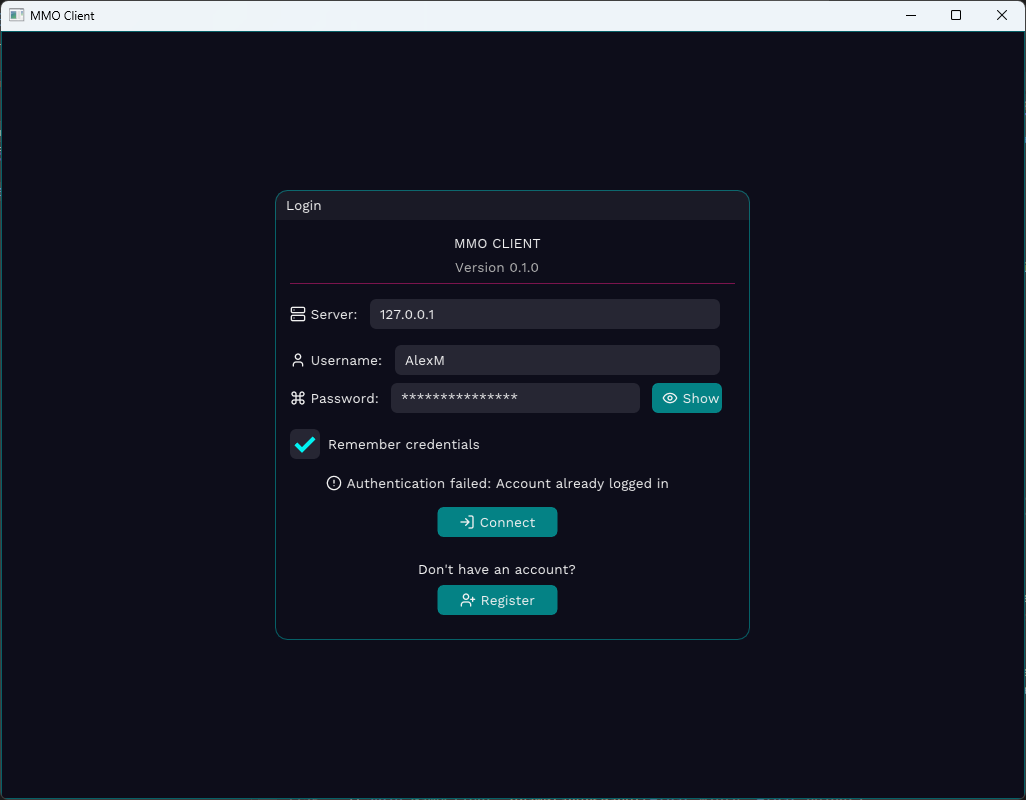
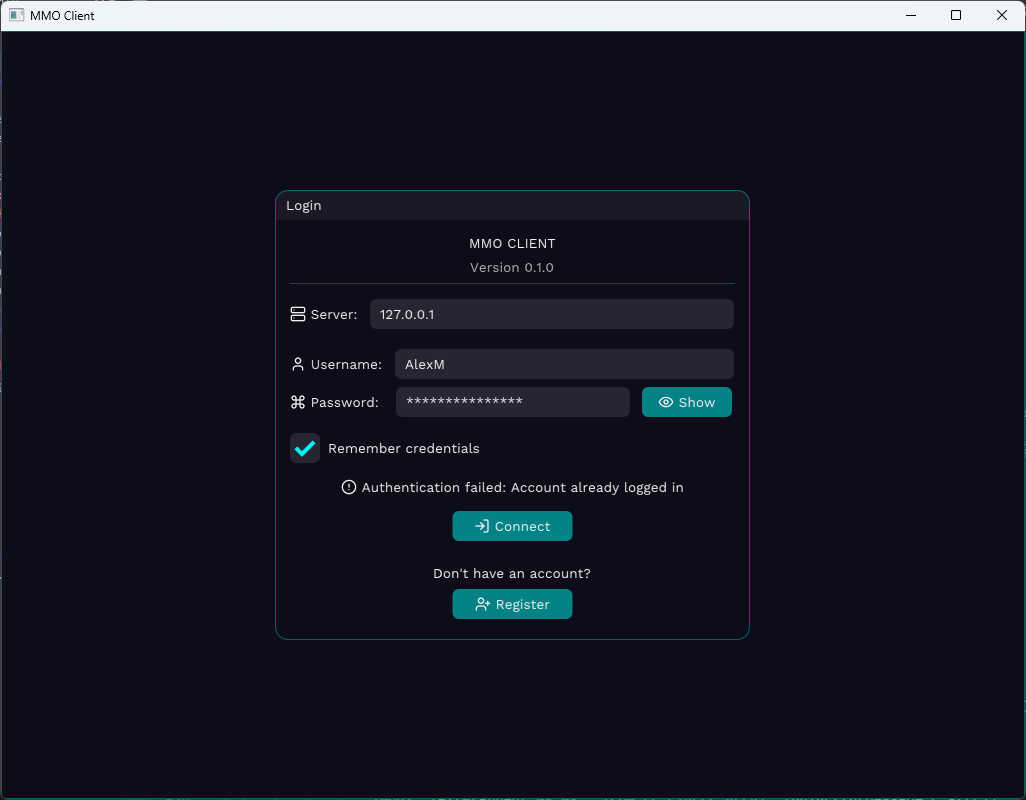
Fixed alignments in the login and register screens

diff --git a/EnetClient/EnetClient/src/GameClient.cpp b/EnetClient/EnetClient/src/GameClient.cpp
@@ -820,18 +820,18 @@ void GameClient::drawLoginScreen()
 	ImGui::Begin("Login", nullptr, ImGuiWindowFlags_NoCollapse | ImGuiWindowFlags_NoResize | ImGuiWindowFlags_NoMove);
 
 	// Calculate content width for centering
-	const float contentWidth = ImGui::GetContentRegionAvail().x;
+	const float contentWidth = windowSize.x;
 
 	// Game title with proper centering
 	ImGui::PushFont(ImGui::GetIO().Fonts->Fonts[0]); // Default font
 
-	// Center the title text properly
-	ImVec2 titleSize = ImGui::CalcTextSize("MMO CLIENT");
+	// Center the title text
+	ImVec2 titleSize = ImGui::CalcTextSize(GAME_NAME);
 	ImGui::SetCursorPosX((contentWidth - titleSize.x) * 0.5f);
-	ImGui::Text("MMO CLIENT");
+	ImGui::Text(GAME_NAME);
 	ImGui::PopFont();
 
-	// Center version text properly
+	// Center version text
 	char versionText[64];
 	snprintf(versionText, sizeof(versionText), "Version %s", VERSION);
 	ImVec2 versionSize = ImGui::CalcTextSize(versionText);
@@ -869,40 +869,37 @@ void GameClient::drawLoginScreen()
 	}
 	else
 	{
-		float labelWidth = 0.0f; // Width for labels
-
-		// Server selection with consistent alignment and icon
+		// Server selection
 		ImGui::AlignTextToFramePadding();
 		ImGui::Text(ICON_LC_SERVER " Server:");
 		ImGui::SameLine();
-		labelWidth = ImGui::GetCursorPosX();
-		ImGui::SetNextItemWidth(contentWidth - labelWidth);
+		ImGui::SetNextItemWidth(-1);
 		char serverBuf[128];
 		strncpy_s(serverBuf, networkManager->getServerAddress().c_str(), sizeof(serverBuf) - 1);
 		if (ImGui::InputText("##Server", serverBuf, sizeof(serverBuf)))
 		{
 			networkManager->setServerAddress(serverBuf);
 		}
-		ImGui::Spacing();
 
-		// Username field with consistent alignment and icon
+		ImGui::Dummy(ImVec2(0.0f, 4.0f));
+
+		// Username field
 		ImGui::AlignTextToFramePadding();
 		ImGui::Text(ICON_LC_USER " Username:");
 		ImGui::SameLine();
-		labelWidth = ImGui::GetCursorPosX();
-		ImGui::SetNextItemWidth(contentWidth - labelWidth);
+		ImGui::SetNextItemWidth(-1);
 		ImGui::InputText("##Username", loginUsernameBuffer, sizeof(loginUsernameBuffer));
 
-		// Password field with better alignment and icon
+		// Password field
 		ImGui::AlignTextToFramePadding();
-		ImGui::Text(ICON_LC_COMMAND " Password:");
+		ImGui::Text(ICON_LC_COMMAND " Password: ");
 		ImGui::SameLine();
-		labelWidth = ImGui::GetCursorPosX();
+		float labelWidth = ImGui::GetCursorPosX();
 		ImGuiInputTextFlags passwordFlags = showPassword ? 0 : ImGuiInputTextFlags_Password;
-		ImGui::SetNextItemWidth(contentWidth - labelWidth - 80);
+		ImGui::SetNextItemWidth(contentWidth - labelWidth - 120);
 		ImGui::InputText("##Password", loginPasswordBuffer, sizeof(loginPasswordBuffer), passwordFlags);
 		ImGui::SameLine();
-		if (ImGui::Button(showPassword ? ICON_LC_EYE_OFF " Hide" : ICON_LC_EYE " Show", ImVec2(70, 0)))
+		if (ImGui::Button(showPassword ? ICON_LC_EYE_OFF " Hide" : ICON_LC_EYE " Show", ImVec2(90, 0)))
 		{
 			showPassword = !showPassword;
 		}
@@ -983,7 +980,7 @@ void GameClient::drawRegisterScreen()
 	ImGui::Begin("Register", nullptr, ImGuiWindowFlags_NoCollapse | ImGuiWindowFlags_NoResize | ImGuiWindowFlags_NoMove);
 
 	// Calculate content width for centering
-	const float contentWidth = ImGui::GetContentRegionAvail().x;
+	const float contentWidth = windowSize.x;
 
 	// Game title with proper centering
 	ImGui::PushFont(ImGui::GetIO().Fonts->Fonts[0]); // Default font
@@ -1005,40 +1002,37 @@ void GameClient::drawRegisterScreen()
 	ImGui::Separator();
 	ImGui::Spacing();
 
-	float labelWidth = 0.0f; // Width for labels
-
-	// Server information
+	// Server selection
 	ImGui::AlignTextToFramePadding();
 	ImGui::Text(ICON_LC_SERVER " Server:");
 	ImGui::SameLine();
-	labelWidth = ImGui::GetCursorPosX();
-	ImGui::SetNextItemWidth(contentWidth - labelWidth);
+	ImGui::SetNextItemWidth(-1);
 	char serverBuf[128];
 	strncpy_s(serverBuf, networkManager->getServerAddress().c_str(), sizeof(serverBuf) - 1);
-	if (ImGui::InputText("##RegServer", serverBuf, sizeof(serverBuf)))
+	if (ImGui::InputText("##Server", serverBuf, sizeof(serverBuf)))
 	{
 		networkManager->setServerAddress(serverBuf);
 	}
-	ImGui::Spacing();
+
+	ImGui::Dummy(ImVec2(0.0f, 4.0f));
 
 	// Username field
 	ImGui::AlignTextToFramePadding();
 	ImGui::Text(ICON_LC_USER " Username:");
 	ImGui::SameLine();
-	labelWidth = ImGui::GetCursorPosX();
-	ImGui::SetNextItemWidth(contentWidth - labelWidth);
-	ImGui::InputText("##RegUsername", registerUsernameBuffer, sizeof(registerUsernameBuffer));
+	ImGui::SetNextItemWidth(-1);
+	ImGui::InputText("##Username", loginUsernameBuffer, sizeof(loginUsernameBuffer));
 
 	// Password field
 	ImGui::AlignTextToFramePadding();
-	ImGui::Text(ICON_LC_COMMAND " Password:");
+	ImGui::Text(ICON_LC_COMMAND " Password: ");
 	ImGui::SameLine();
-	labelWidth = ImGui::GetCursorPosX();
-	ImGui::SetNextItemWidth(contentWidth - labelWidth - 80);
+	float labelWidth = ImGui::GetCursorPosX();
 	ImGuiInputTextFlags passwordFlags = showPassword ? 0 : ImGuiInputTextFlags_Password;
-	ImGui::InputText("##RegPassword", registerPasswordBuffer, sizeof(registerPasswordBuffer), passwordFlags);
+	ImGui::SetNextItemWidth(contentWidth - labelWidth - 120);
+	ImGui::InputText("##Password", loginPasswordBuffer, sizeof(loginPasswordBuffer), passwordFlags);
 	ImGui::SameLine();
-	if (ImGui::Button(showPassword ? ICON_LC_EYE_OFF " Hide" : ICON_LC_EYE " Show", ImVec2(70, 0)))
+	if (ImGui::Button(showPassword ? ICON_LC_EYE_OFF " Hide" : ICON_LC_EYE " Show", ImVec2(90, 0)))
 	{
 		showPassword = !showPassword;
 	}
@@ -1047,8 +1041,7 @@ void GameClient::drawRegisterScreen()
 	ImGui::AlignTextToFramePadding();
 	ImGui::Text(ICON_LC_CHECK " Confirm:");
 	ImGui::SameLine();
-	labelWidth = ImGui::GetCursorPosX();
-	ImGui::SetNextItemWidth(contentWidth - labelWidth);
+	ImGui::SetNextItemWidth(-1);
 	ImGui::InputText("##RegConfirmPassword", registerConfirmPasswordBuffer, sizeof(registerConfirmPasswordBuffer), passwordFlags);
 
 	ImGui::Spacing();
@@ -1080,7 +1073,7 @@ void GameClient::drawRegisterScreen()
 	}
 
 	// Register button
-	const float buttonWidth = 120.0f;
+	float buttonWidth = 120.0f;
 	ImGui::SetCursorPosX((contentWidth - buttonWidth) * 0.5f);
 	if (ImGui::Button(ICON_LC_USER_PLUS " Register", ImVec2(buttonWidth, 30)))
 	{
@@ -1090,11 +1083,9 @@ void GameClient::drawRegisterScreen()
 	ImGui::Spacing();
 
 	// Back to login link
-	const char* backText = ICON_LC_ARROW_LEFT " Back to Login";
-	ImVec2 backSize = ImGui::CalcTextSize(backText);
-	ImGui::SetCursorPosX((contentWidth - backSize.x) * 0.5f);
-
-	if (ImGui::Button(backText))
+	buttonWidth *= 1.15f;
+	ImGui::SetCursorPosX((contentWidth - buttonWidth) * 0.5f);
+	if (ImGui::Button(ICON_LC_ARROW_LEFT " Back to Login", ImVec2(buttonWidth, 30)))
 	{
 		connectionState = ConnectionState::LoginScreen;
 		registerErrorMessage.clear();
@@ -1162,7 +1153,7 @@ void GameClient::drawHeader()
 	ImGui::PushFont(ImGui::GetIO().Fonts->Fonts[1]); // Larger font
 	ImGui::SetCursorPosY(15);
 	ImGui::SetCursorPosX((ImGui::GetContentRegionAvail().x - ImGui::CalcTextSize(GAME_NAME).x) * 0.5f);
-	ImGui::TextColored(themeManager.getCurrentTheme().textAccent, "MMO CLIENT");
+	ImGui::TextColored(themeManager.getCurrentTheme().textAccent, GAME_NAME);
 
 	// Player name centered in the header
 	ImGui::SetCursorPosX((ImGui::GetContentRegionAvail().x - ImGui::CalcTextSize(myPlayerName.c_str()).x) * 0.5f);
@@ -1584,7 +1575,7 @@ void GameClient::drawChatPanel(float width, float height)
 			{
 				// Format timestamp
 				std::string timeStr = Utils::formatTimestamp(msg.timestamp);
-				
+
 				// First message in group shows timestamp at the top
 				ImGui::TextColored(theme.textSecondary, "%s", timeStr.c_str());
 			}
@@ -1786,7 +1777,7 @@ void GameClient::drawUI()
 
 	// Disable rounding for full window
 	ImGui::PushStyleVar(ImGuiStyleVar_WindowRounding, 0.0f);
-	ImGui::Begin("MMO Client", nullptr, window_flags);
+	ImGui::Begin(GAME_NAME, nullptr, window_flags);
 	ImGui::PopStyleVar();
 
 	// Handle game controls when connected and not focusing UI inputs

diff --git a/EnetServer/EnetServer/src/PluginManager.cpp b/EnetServer/EnetServer/src/PluginManager.cpp
@@ -101,7 +101,7 @@ bool PluginManager::loadPlugin(const std::string& path)
 		// Set up function pointers using std::function (ensure ServerFunctions struct is updated)
 		functions.broadcastSystemMessage = [this](const std::string& msg) { server->broadcastSystemMessage(msg); };
 
-		functions.sendSystemMessage = [this](Player& player, const std::string& msg) { server->sendSystemMessage(player, msg); };
+		functions.sendSystemMessage = [this](const Player& player, const std::string& msg) { server->sendSystemMessage(player, msg); };
 
 		// Make sure this is actually defined in your ServerFunctions struct
 		functions.getLogger = [this]() -> Logger* { return &server->logger; };
@@ -136,14 +136,13 @@ bool PluginManager::loadPlugin(const std::string& path)
 			return false;
 		}
 
-		// Check if plugin already exists
-		if (plugins.find(pluginName) != plugins.end())
-		{
-			releaseUniqueLock();
-			// Clean up as in original
-			return false;
-		}
-
+        // Check if plugin already exists
+        if (!plugins.empty() && plugins.find(pluginName) != plugins.end())
+        {
+            releaseUniqueLock();
+            return false;
+        }
+	
 		// Get last modified time of the file
 		std::filesystem::file_time_type lastModified;
 		try
@@ -556,7 +555,7 @@ void PluginManager::dispatchServerTick()
 	}
 }
 
-bool PluginManager::dispatchPlayerCommand(Player& player, const std::string& command, const std::vector<std::string>& args)
+bool PluginManager::dispatchPlayerCommand(const Player& player, const std::string& command, const std::vector<std::string>& args)
 {
 	auto pluginInstances = getPluginInstancesCopy();
 
